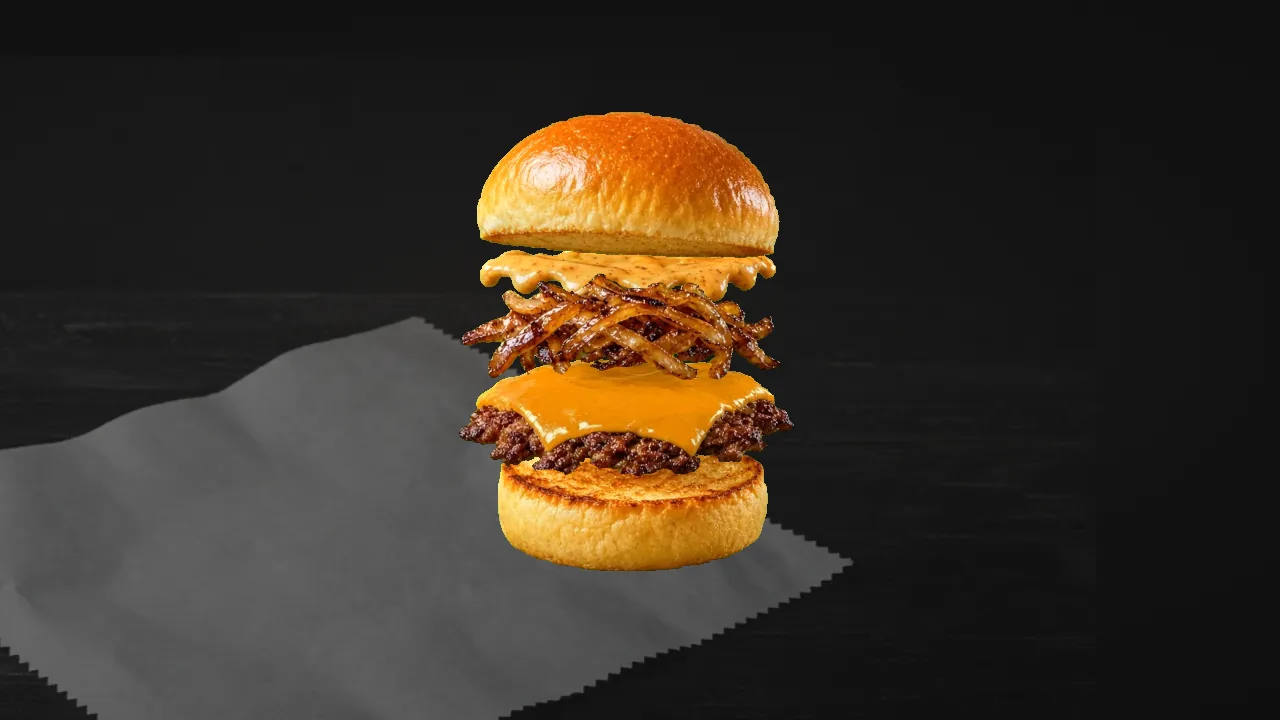
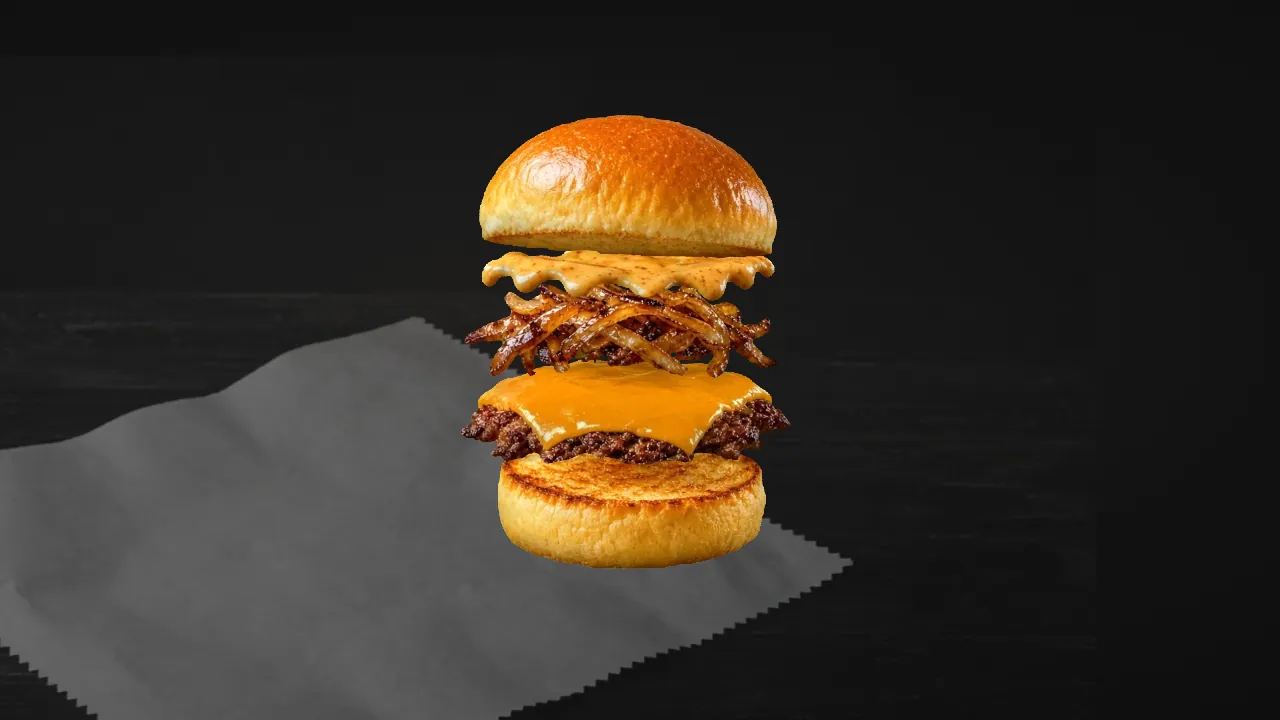
v11: combo box seen more from above (rx 0.62, lid leaning back) with the food leaning into its compartments like z020/z024; regenerate stills

Changed region(s): [[0.3438, 0.1528, 0.625, 0.7944], [0.375, 0.2139, 0.4062, 0.275]]

diff --git a/main.js b/main.js
@@ -390,7 +390,7 @@ async function initAnim() {
   bsh.rotation.x = -Math.PI / 2; bsh.position.y = 0.002; bsh.renderOrder = 2; box.add(bsh);
   // slots inside the box (box-local, bottom anchored) + widths in box units
   const SLOT = { photo: [-0.89, INS.burger, 0.06, 1.4], burger: [-0.8, INS.burger, 0.2, 0], fries: [0.3, INS.fries, -0.46, 0], dipO: [0.08, INS.dips, 0.4, 0], dipD: [0.52, INS.dips, 0.7, 0], shake: [1.1, INS.shake, 0.22, 0] };
-  const BOX_OPEN = { rx: 0.46, ry: -0.26, lid: -1.74 }, BOX_FRONT = { rx: 0.09, ry: 0.0, lid: 0 }; // open: 3/4 view like the video; closed: straight-on front
+  const BOX_OPEN = { rx: 0.62, ry: -0.24, lid: -2.2 }, BOX_FRONT = { rx: 0.09, ry: 0.0, lid: 0 }; // open: 3/4 view like the video; closed: straight-on front
 
   await yieldMain();
   const blob = canvasTex(256, 128, (g, w, h) => { const gr = g.createRadialGradient(w / 2, h / 2, 2, w / 2, h / 2, w / 2); gr.addColorStop(0, 'rgba(0,0,0,.85)'); gr.addColorStop(0.55, 'rgba(0,0,0,.4)'); gr.addColorStop(1, 'rgba(0,0,0,0)'); g.setTransform(1, 0, 0, 0.5, 0, h / 4); g.fillStyle = gr; g.fillRect(0, 0, w, w); });
@@ -426,7 +426,7 @@ async function initAnim() {
   burgerSh.rotation.x = -Math.PI / 2; burgerSh.renderOrder = 3; box.add(burgerSh); burgerSh.position.set(SLOT.burger[0], SLOT.burger[1] + 0.004, SLOT.burger[2]);
   const FOOD = { fries, dipO, dipD, shake };
   fries.userData.lift = 1.7; dipO.userData.lift = dipD.userData.lift = 1.1; shake.userData.lift = 0.5;
-  fries.userData.k = 1.15; shake.userData.k = 1.04; dipO.userData.k = dipD.userData.k = 0.5; const KB = 1.6 / (4.84 / U); // v11: burger + shake bigger, like z020/z024
+  fries.userData.k = 1.15; shake.userData.k = 1.04; dipO.userData.k = dipD.userData.k = 0.5; const KB = 1.6 / (4.84 / U); const LEAN = 0.42; // v11: food leans back with part of the box pitch, so it sits in the compartments seen from above (z020/z024) // v11: burger + shake bigger, like z020/z024
   // free-pose widths are in burger units; make the sizes follow real proportions
   await yieldMain();
   /* ---------- fitting helpers ---------- */
@@ -528,7 +528,7 @@ async function initAnim() {
     eA.set(mouse.y * 0.04, (yaw + (S.spin - 0.5) * 0.9) * 0.3 + mouse.x * 0.08, roll * 0.7); qA.setFromEuler(eA);
     if (k > 0) {
       vS.set(slot[0], slot[1], slot[2]); box.localToWorld(vS); const kk = ease(clamp01(k));
-      eF.set(0, box.rotation.y * 0.3 + yaw * 0.1 + 0.03, 0); qB.setFromEuler(eF);
+      eF.set(-LEAN * box.rotation.x, box.rotation.y * 0.3 + yaw * 0.1 + 0.03, 0); qB.setFromEuler(eF);
       x = lerp(x, vS.x, kk); y = lerp(y, vS.y, kk) + Math.sin(Math.PI * kk) * (o.userData.lift ?? 0.9) * box.scale.x; z = lerp(z, vS.z, kk) + Math.sin(Math.PI * kk) * 0.6 * box.scale.x; // arc: items drop into their compartments from above
       sc = lerp(sF, box.scale.x * (o.userData.k || 1), kk); qA.slerp(qB, kk);
     }
@@ -579,7 +579,7 @@ async function initAnim() {
       if (kk > 0) {
         vS.set(SLOT.burger[0], SLOT.burger[1] - sink, SLOT.burger[2]); box.localToWorld(vS);
         x = lerp(x, vS.x, kk); y = lerp(y, vS.y, kk); z = lerp(z, vS.z, kk); sc = lerp(sc, box.scale.x * KB / U, kk);
-        eF.set(0, box.rotation.y * 0.3 + 0.05, 0); qB.setFromEuler(eF); qA.slerp(qB, kk);
+        eF.set(-LEAN * box.rotation.x, box.rotation.y * 0.3 + 0.05, 0); qB.setFromEuler(eF); qA.slerp(qB, kk);
       }
       burger.position.set(x, y, z); burger.scale.setScalar(sc); burger.quaternion.copy(qA);
       burger.updateMatrixWorld(true);
